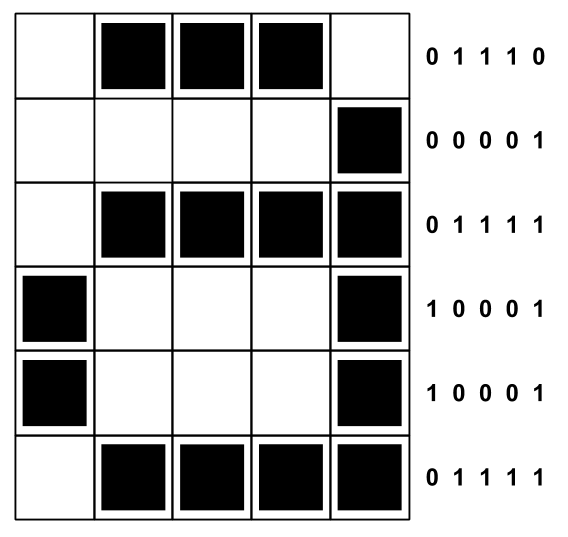
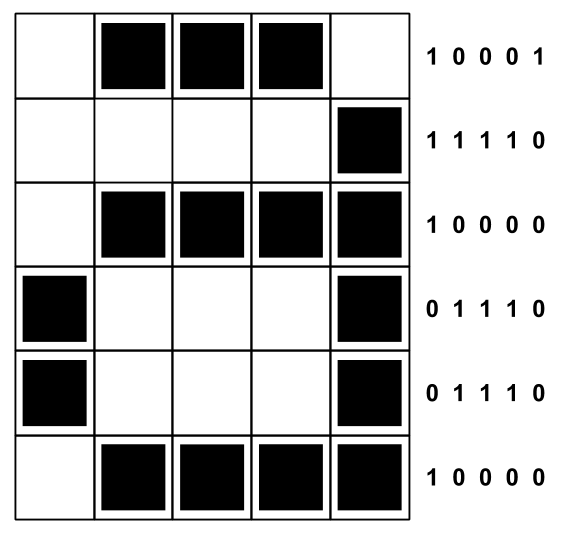
Unit plan and lesson 1 for ages 5-7 and 8-10 completed and ready for author review. Lesson content requires issue #1220 to be merged, otherwise it is innacurate where the pixel painter instructions are given.

diff --git a/csunplugged/topics/content/en/image-representation/unit-plan/lessons/colour-by-numbers.md b/csunplugged/topics/content/en/image-representation/unit-plan/lessons/colour-by-numbers.md
@@ -1,6 +1,5 @@
 # Colour by numbers
 
-{comment Do learning outcomes at some point. They go in the yaml file}
 
 ## Key questions
 
@@ -11,10 +10,9 @@
 ## Lesson starter
 
 
-
 Children will need:
 
-  - A normal writing pencil.
+  - A normal writing pencil, or a black pencil.
   - Erasers.
 
 
@@ -33,7 +31,7 @@ Use the **Black and White colouring type** (the first option on the list), and:
 
   - Print spare copies of each worksheet in case students make mistakes and need a new one.
   - Use the *Black and White (2 possible binary values)* colouring option, **not** the option which says "in Run Length Encoding"
-  - Students can instead use a black pencil or felt tip pen, but easily erasable pencils work much better the first time students do this activity.
+  - Students can instead use a black crayon or felt tip pen, but easily erasable pencils work much better for the first time students do this activity.
 
 {panel end}
 
@@ -55,7 +53,7 @@ Megapixel means one million pixels.
 Students may have heard the term "megapixels" used before because cameras are often described as being a certain number of megapixels, for example a phone might have a *12-megapixel* camera.
 This describes the resolution of the photos a camera can take. A 12-mega pixel camera can produce an image with 12 million pixels in it.
 
-Television screens are also made up of pixels.
+Television screens and projectors also display images using pixels.
 
 {panel end}
 
@@ -66,22 +64,22 @@ Teacher to class: Every image we see on a screen, whether it is a picture, a vid
 Show the following images to students on a screen or on the board.
 
 Teacher to class: In a black and white image, each pixel can be either black or white, so all the computer would need to store is which dots are black and which are white.
-For example, if we wanted to display the letter *a* we need to divide it into squares.
+For example, if we wanted to display the letter *a* we first need to divide it into squares.
 If we zoom in further and further on the letter we can see a grid of pixels similar to these:
 
 {image file-path="img/topics/letter-zooming-to-pixels.png" alt="Three images of the lower case letter 'a' are shown. These progressively zoom in to show the individual black and white squares which make up the letter on the screen."}
 
 We can represent this image using binary digits.
-If a 0 indicates a white square and a 1 indicates a black square then we can represent our letter *a*, on a 5x6 pixel grid, like this:
+If a 1 indicates a white square and a 0 indicates a black square then we can represent our letter *a*, on a 5x6 pixel grid, like this:
 
-{image file-path="img/topics/a_in_binary_code.png" alt="A string of binary numbers is shown. They are divided in six lots of five numbers."}
+
+**10001, 11110, 10000, 01110, 01110, 10000**
 
 If we take these numbers and draw the image they represent we get the letter a:
 
 {image file-path="img/topics/pixel-visible-grid-with-letter-and-numbers.png" alt="A six by five grid is shown. Some of the squares are white and others are coloured black to create the shape of the letter 'a'. To the right of each row of squares there are five binary digits which describe the image."}
 
-
-*Anything else to write here?*
+We are using 1 to represent white and 0 to represent black, in the same way we used white and black cards to represent 'on' and 'off' in the binary numbers unit.
 
 
 ## Lesson activities
@@ -89,32 +87,34 @@ If we take these numbers and draw the image they represent we get the letter a:
 Hand out the 1 page image worksheets to students and ask them to look at the grid of squares.
 What do they notice about the numbers in the squares? They are all 1's or 0's.
 
-Teacher to class: The grid on these sheets represents the pixels on a computer screen. Now you're going to be the computer and use the digits in the squares to make an image.
+Teacher to class: The grid on these sheets represents the pixels on a computer screen. Now you are going to be the computer and use the digits in the squares to make an image.
 
 
-On the worksheets, have students colour in each square with a 1 in it, and leave each square with a 0 blank.
-Advise them to colour them in lightly at first, and then when they are sure they haven't made any mistakes they can colour them in fully.
+On the worksheets, have students colour in each square with a 0 in it black, and leave each square with a 1 blank so that it is white.
+We are using 1 to represent white and 0 to represent black, because 1 indicates that a pixel is 'on' (and therefore white) and a 0 indicates it is 'off' (and so it is black).
+By colouring the 0 squares in this activity, students are effectively 'turning off' those pixels.
+Advise them to colour them in lightly at first, and then when they are sure they have not made any mistakes they can colour them in fully.
 As they work through the worksheet they should see an image emerging.
 
 
-Teacher to class: Now that we've made some simple images with our numbers and pixels, we can try making some more detailed ones. How do you think we could make more detailed or higher quality images?
+Teacher to class: Now that we have made some simple images with our numbers and pixels, we can try making some more detailed and complicated ones. How do you think we could make more complicated or higher quality images?
 
 {panel type="general"}
 
 # Teaching observations
 
-Possible answers might include adding more colours. This is a good answer and colours are part of more advanced lessons in this unit, but this lesson only focusses on black and white pixels, so bring students back to this and ask them how they can make a black and white image more detailed.
+Possible answers include adding more colours. This is a good answer and colours are part of more advanced lessons in this unit, but this lesson only focusses on black and white pixels, so bring students back to this and ask them how they can make a black and white image more detailed.
 
 {panel end}
 
 The answer you are looking for is to use more pixels for the image, which is what students will do in this next activity.
 
 Put students into groups and give each group a set of the multipage image worksheets, so that each student has a page to work on.
-If this isn't possible with the number of students you have just make sure groups are small enough for each students to have at least one page, or preferably for each student to have the same number of pages.
-For example have groups of 3 work on one of the 6 page images, so each student has 2 pages to complete.
+If this is not possible with the number of students you have just make sure groups are small enough for each students to have at least one page, or preferably for each student to have the same number of pages.
+For example have groups of 3 work on a 6 page image, so each student has 2 pages to complete.
 
 
-Teacher to class: These sets of grids can all be put together to create one larger image, which has much more pixels than the last ones. You're each going to colour in the pixels on your own sheet, in the same way as before, and then put the whole image together.
+Teacher to class: These sets of grids can all be put together to create one larger image, which has much more pixels than the last ones. you are each going to colour in the pixels on your own sheet, in the same way as before, and then put the whole image together.
 
 Once students have coloured in their sheets they can arrange them together to create the whole image.
 There are diagrams on the worksheet printables which teachers can use to help students put their images together if they get stuck.
@@ -123,12 +123,12 @@ There are diagrams on the worksheet printables which teachers can use to help st
 
 ## Applying what we have just learnt
 
+- Instead of writing the 1's and 0's into each of the boxes on the grid, have students write out the binary digits that represent their image (in the same way as the 'a' in the lesson starter section) and give this to other students and see if they can re-create the same picture.
+
 - Now that students have tried creating the larger images they could take it a step further and make an image as a whole class.
 The Pixel Painter Parrots option is made up of 32 pages, and is a great challenge for a class.
 
 - Students can also try creating their own pixel art, convert this into a grid of digits, and then have their friends try to re-create their image.
-
-- Instead of writing the 1's and 0's into each of the boxes on the grid, have students write out the binary digits that represent their image (in the same way as the 'a' in the lesson starter section) and give this to other students and see if they can re-create the same picture.
 
 
 {panel type="general"}
@@ -149,11 +149,9 @@ After creating their images they can try converting these to grid paper as well.
 
 This lesson has just covered black and white images, why can't we do more than two colours with this activity?
 
-  - If we can only use one binary digit for each we can only represent two different colours.
-  This means each pixel can only be one of two different colours.
+  - With one binary digit we can only represent two different values.
+  This means if we use one digit to represent the colour of one pixel, then each pixel can only be one of two different colours.
 
 What could we do to represent more colours?
 
   - If we want each pixel to be able to show more colours other than black and white then we need to use more numbers (or binary digits) to represent the colour of each pixel. This will be explored in future lessons.
-
-{comment Come back and split lessons later if they need to be different for different age groups, once all the other content is done}

diff --git a/csunplugged/topics/content/en/image-representation/unit-plan/unit-plan.md b/csunplugged/topics/content/en/image-representation/unit-plan/unit-plan.md
@@ -16,7 +16,6 @@ Because modern computers store data as digits, computer images are ultimately re
 
 {comment Add teaching this in action video here}
 
-{comment Old version of text: All information that modern computers store and process is stored using just two states, represented by binary digits. This means that everything you see in computer images is stored inside a computer using just 0's and 1's, and these are used to *represent* images.}
 
 {panel type="text"}
 
@@ -32,21 +31,17 @@ Computer screens are divided into a grid of tiny squares called {glossary-link t
 These pixels can each show a different colour, and because they are so small when we look at a screen we don't see the individual pixels, instead we see them blend together into an image.
 If you look very, very closely at a computer or TV screen (especially older ones) then you might be able to see these individual pixels.
 
-{comment Could add "Be careful not to hurt your eyes though!" on the end of this}
-
-The digits stored in the computer tell each of these pixels what colour they should be and when they should change colour, which means computers can turn a bunch of random looking binary digits into all the beautiful images we see on our screens!
+The digits stored in the computer tell each of these pixels what colour they should be and when they should change colour, which means computers can turn a bunch of random looking binary digits into all the beautiful images we see on our screens.
 
 There are many different methods we can use to convert images into digital data and back again. The method we choose depends on what type of images the data needs to be converted into.
-A black and white image, where each pixel can be only either black or white, is much simpler to represent using digits than a full length, colour, and high-definition movie is!
-In this unit students are introduced to simple examples of how they can use digits to create images, how the number of colours an image can include is based on the number of bits used to store it, and how images can be compressed so computers can process them faster.
+A black and white image, where each pixel can be only either black or white, is much simpler to represent using digits than a full length, colour, and high-definition film is!
+In this unit students are introduced to simple examples of how they can use digits to create images, how the number of colours an image can include is based on the number of bits used to store it, and how images can be compressed so they take up less memory space and computers can process them faster.
 
 
 ## Digital Technologies | Data Representation
 
 All data on computers is represented with digits, and using these digits to represent other types of data and information is a core concept of Computer Science.
 At this point you have probably noticed the words **represent** and **representation** are being used a lot, so let's look at exactly what we mean by this.
-
-{comment This image is currently too big for the page}
 
 {image file-path="img/topics/binary-picture-showing-bits.png" alt="If we look closely at an image on a computer screen we can see it is made up of a grid of tiny dots called pixels. The colour of each of these is stored inside a computer using binary."}
 
@@ -61,13 +56,10 @@ Students learn to break down images into pixels and then to digits, and how to m
 
 ## Digital Technologies | Algorithms
 
-{comment Could include Algorithms as well because of RLE/encoding Algorithms}
-
 When pixels are used to represent images, the process we go through to convert digits into these pixels is a type of Algorithm.
 There are many different algorithms computers use to do this, and the one they use depends on things like the file type of the images being displayed, for example if it is a picture like a .png or .jpeg, or a video file like an .mp4 or .avi; or what resolution the image is.
 We also use Algorithms to compress images to smaller file sizes, which means they use less memory, can be processed more quickly, and are faster to download.
-
-{comment Through lerning about image representation students practice algorithmic thinking and pattern matching...}
+Through lerning about image representation students practice algorithmic thinking, pattern matching, and abstract thinking.
 
 ## Vocabulary Explained
 
@@ -91,14 +83,13 @@ The more bits we use to store the colour of a pixel, the more different colours 
 If we use one bit to store the colour of a pixel then we only have two options for what that colour can be (remember, with one bit we can represent two different values only, because we can only use 0 or 1).
 If we use 8 bits (1 byte) then we can display 256 different colours instead, and if we use 24 bits (3 bytes) then we can display over 16 million different colours, which is more than the human eye can see!
 
-However, using more bits to represent a colour will increase the size of an image file, which means it will take up more space in memory and take longer for a computer to process and display.
+However, using more bits to represent a colour will increase the size of an image file. This means it will take up more space in memory, take longer for a computer to process and display. and take longer to be transmitted between computers and over the internet.
 Filmakers have to use powerful computers and store large amounts of data when they are editing their videos, otherwise it would take them far too long to do this, or they would have to decrease the image quality of their films.
 This is also why old computers can't always run newer games; the older computers simply can't process the game graphics quickly enough to display them.
 
 For some types of images there are ways we can {glossary-link term="compress"}compress{glossary-link end} them.
 This means we can decrease the size of the image files without losing, or only losing a small amount of, quality and information.
 Image compression algorithms allow us to store, process, transmit, and create images more quickly.
-
 
 
 
